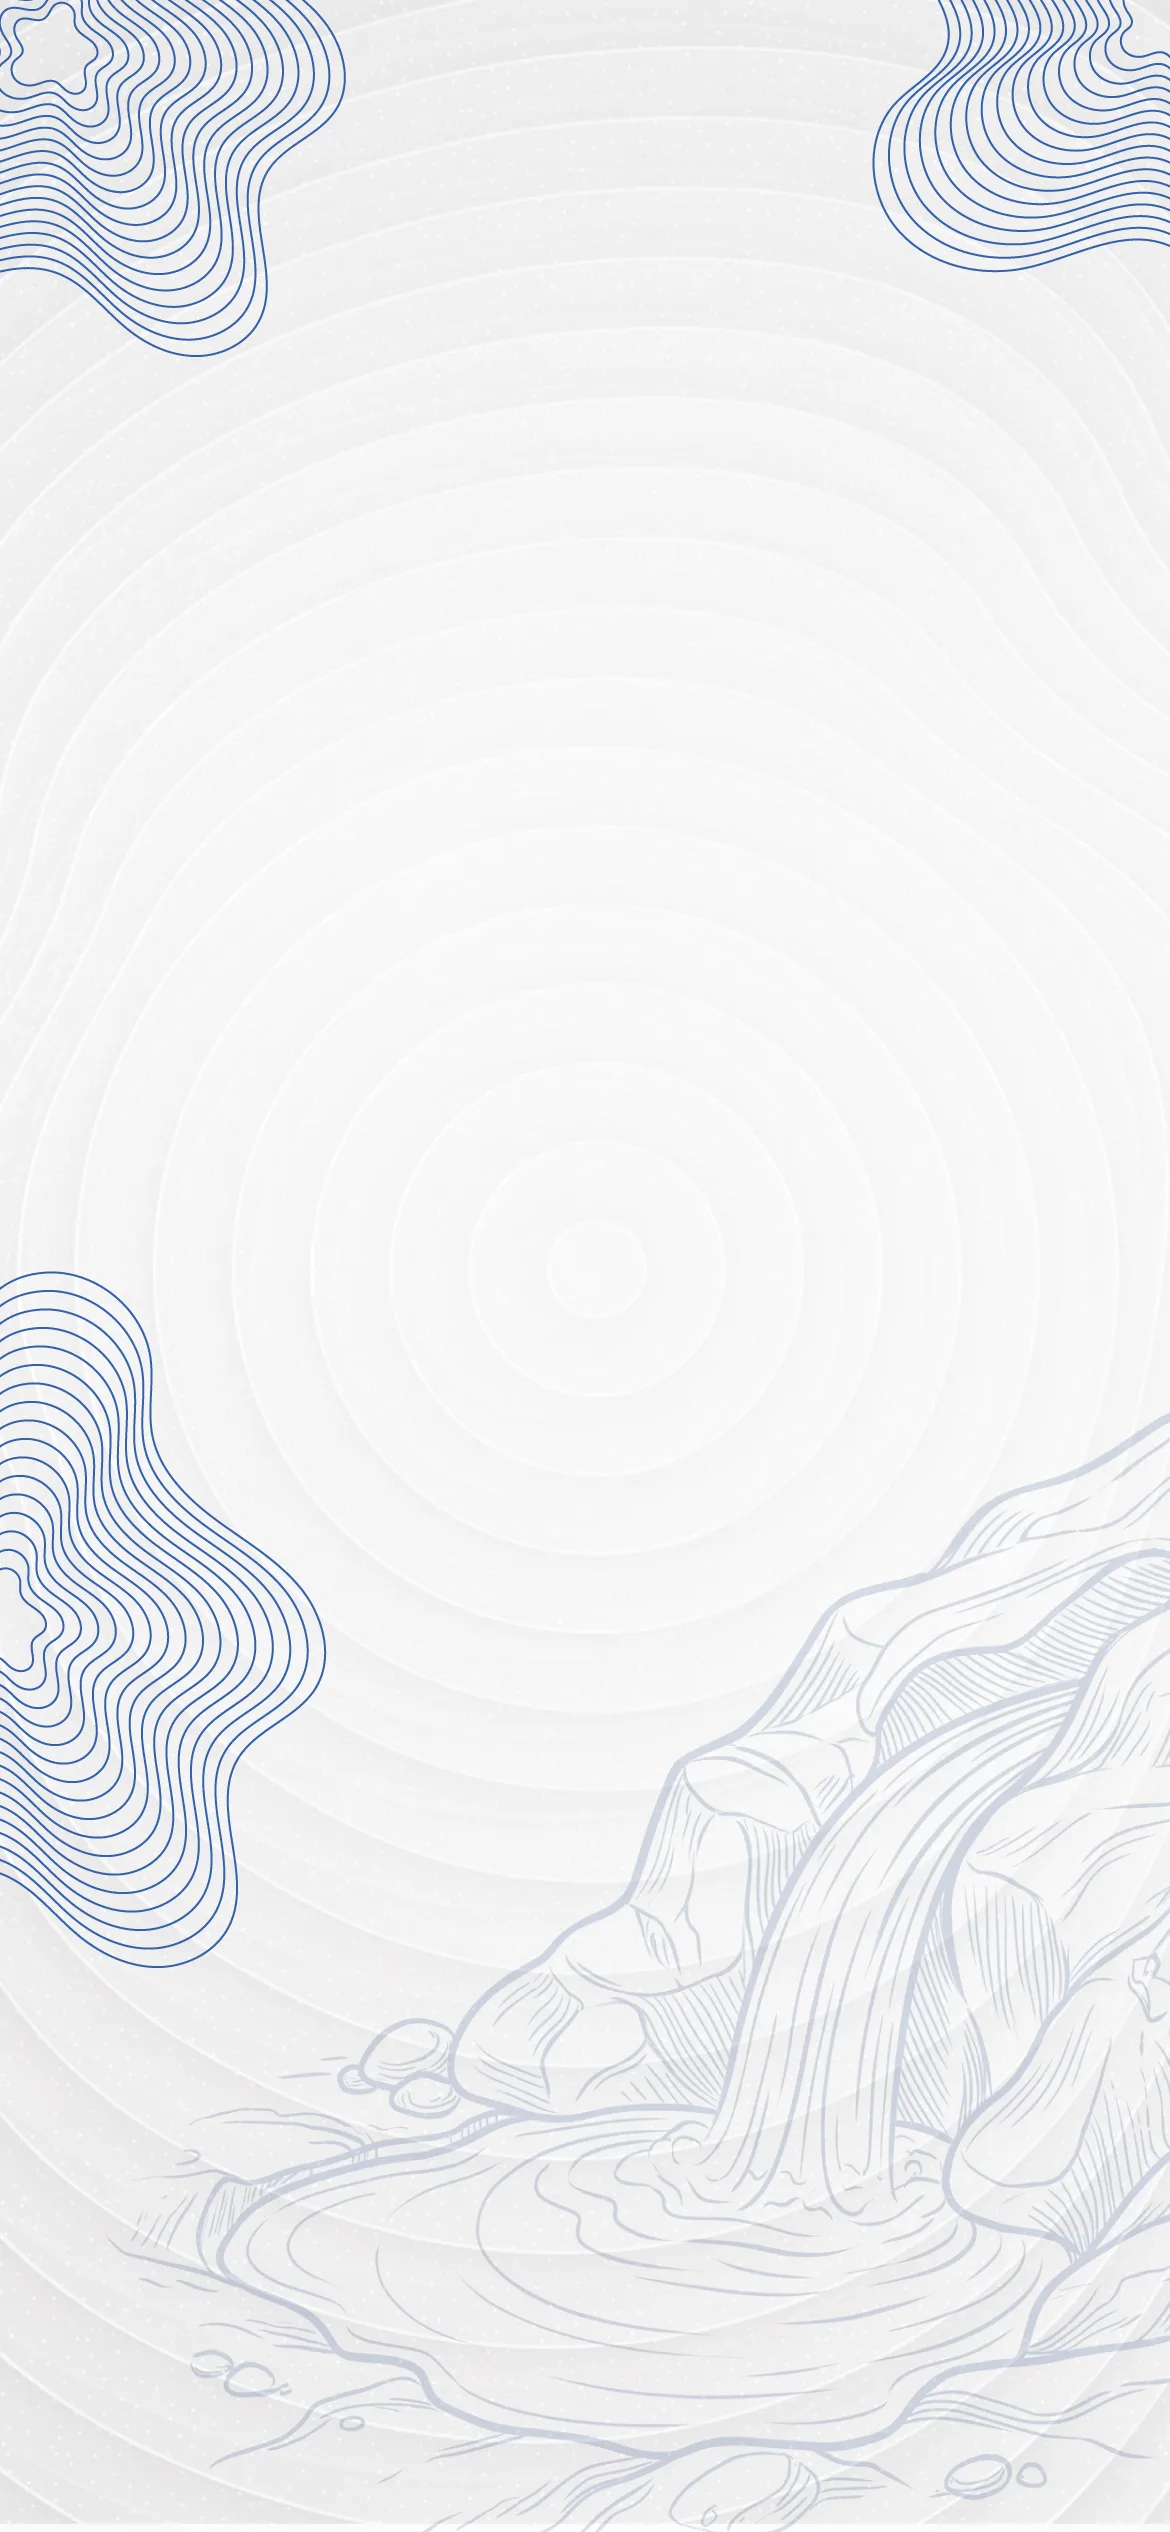
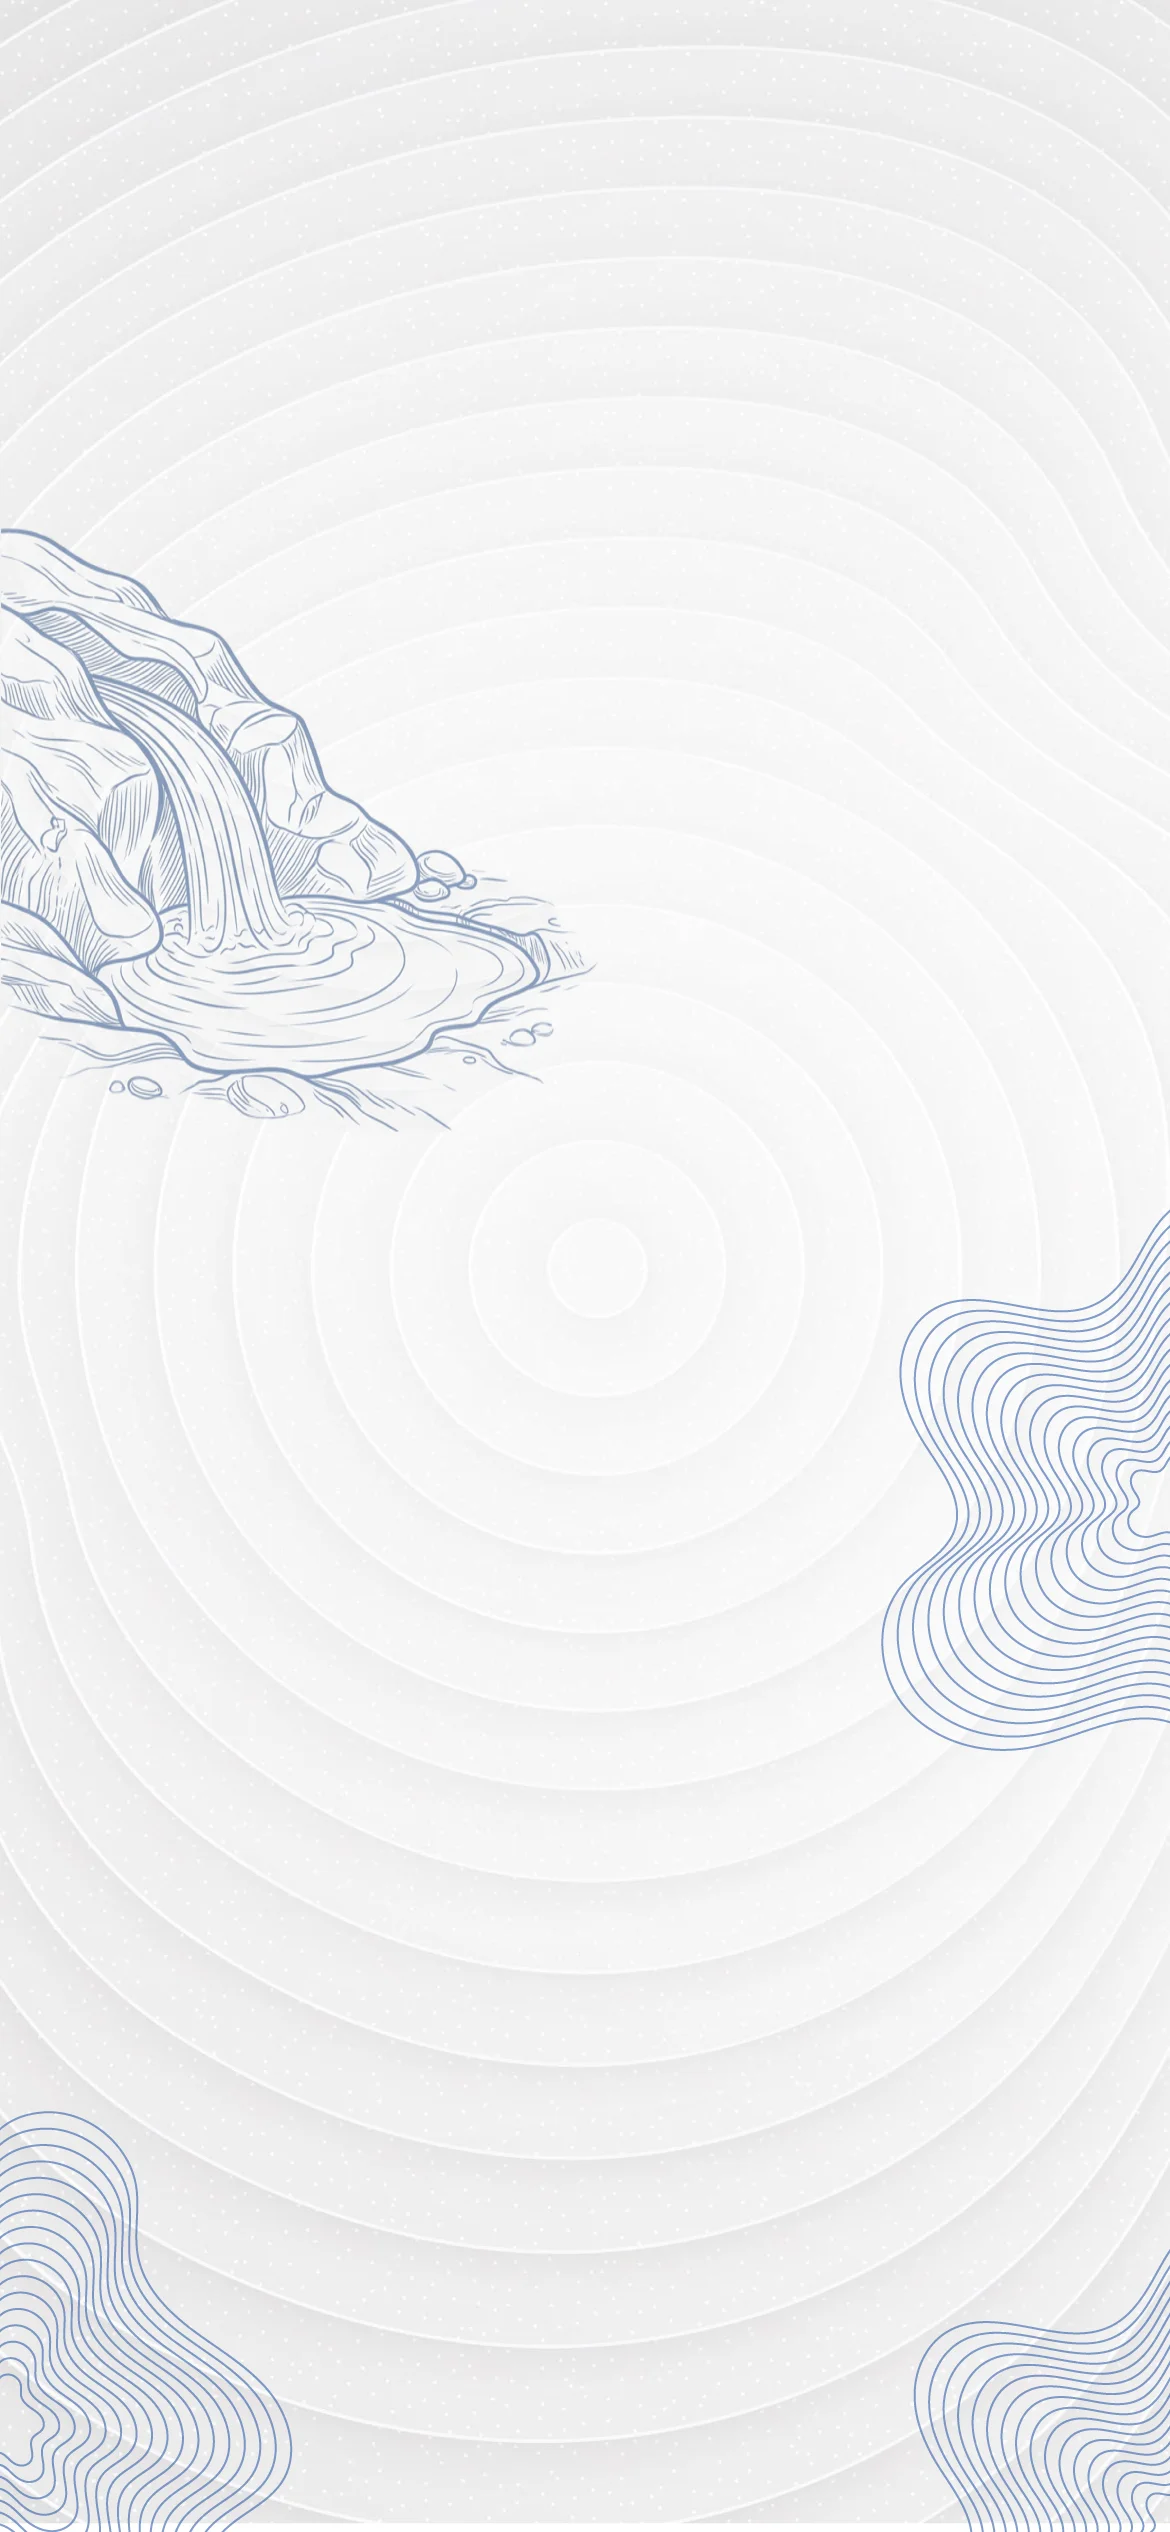
feat: fondos ajustados, badge de ubicación clickeable, fixes de galería
- Segunda entrega de fondos "ajustados" para Agua, Guardacuencas,
  Especie del Mes y Jóvenes pa' Lante (Biodiversidad quedó igual)
- Nombre de grupo (.bio-card__name) siempre verde oscuro
- Fix: el emoji de respaldo (💧 en Guarda Cuencas, emoji de familia en
  JPL) tapaba la foto ya cargada por faltar display:none por defecto
- Badge de ubicación en la galería de Guarda Cuencas ahora es un enlace
  al mapa de cuencas, con estilo de chip interactivo
- CLAUDE.md documentado con todo lo anterior

diff --git a/comunidad/guarda_cuencas/galeria.js b/comunidad/guarda_cuencas/galeria.js
@@ -100,13 +100,13 @@ const SUBREGION_NAMES = {
 
         card.innerHTML = `
           <div class="photo-card__img-wrap">
-            <img src="${foto.foto}" alt="${titulo}" loading="lazy" onerror="this.style.display='none'">
+            <img src="${foto.foto}" alt="${titulo}" loading="lazy" onerror="this.style.display='none'; this.nextElementSibling.style.display='flex'">
             <div class="photo-card__placeholder">💧</div>
           </div>
           <div class="photo-card__info">
             <div class="photo-card__title">${titulo}</div>
             <div class="photo-card__badges">
-              <span class="badge-subregion">📍 ${subNombre}</span>
+              <a href="../../agua/mapa.html" class="badge-subregion badge-subregion--link" onclick="event.stopPropagation()" aria-label="Ver cuencas en el mapa">📍 ${subNombre}</a>
             </div>
             <div class="photo-card__credit">
               <svg width="12" height="12" viewBox="0 0 24 24" fill="none" stroke="currentColor" stroke-width="2" aria-hidden="true"><circle cx="12" cy="8" r="4"/><path d="M6 20v-2a6 6 0 0112 0v2"/></svg>
@@ -137,7 +137,7 @@ const SUBREGION_NAMES = {
 
       document.getElementById('modal-title').textContent = titulo;
       document.getElementById('modal-badges').innerHTML = `
-        <span class="badge-subregion">📍 ${subNombre}</span>
+        <a href="../../agua/mapa.html" class="badge-subregion badge-subregion--link" aria-label="Ver cuencas en el mapa">📍 ${subNombre}</a>
         <span class="badge-municipio">🏘 ${foto.municipio}</span>`;
       const descEl = document.getElementById('modal-desc');
       descEl.textContent = desc || '';

diff --git a/comunidad/guarda_cuencas/galeria.css b/comunidad/guarda_cuencas/galeria.css
@@ -125,7 +125,7 @@
     .photo-card__placeholder {
       position: absolute;
       inset: 0;
-      display: flex;
+      display: none;
       align-items: center;
       justify-content: center;
       font-size: 4rem;
@@ -159,6 +159,27 @@
       font-weight: 700;
       padding: 4px 10px;
       border-radius: var(--radius-sm);
+    }
+
+    /* A diferencia del tag informativo de arriba, este SÍ navega
+       (lleva al mapa de cuencas) — por eso usa la forma de chip
+       interactivo: píldora + borde, en vez de rectángulo suave. */
+    .badge-subregion--link {
+      display: inline-flex;
+      align-items: center;
+      gap: 3px;
+      border-radius: var(--radius-full);
+      border: 1.5px solid var(--color-gc);
+      background: var(--color-white);
+      text-decoration: none;
+      cursor: pointer;
+      transition: transform 0.15s ease, background 0.15s ease;
+    }
+
+    .badge-subregion--link:active {
+      transform: scale(0.96);
+      background: var(--color-gc);
+      color: var(--color-white);
     }
 
     .photo-card__credit {

diff --git a/comunidad/jovenes_pa_lante/galeria.html b/comunidad/jovenes_pa_lante/galeria.html
@@ -6,9 +6,9 @@
   <meta name="theme-color" content="#f28e18">
   <title>Fotos Biodiversidad · Jóvenes pa' Lante</title>
   <link rel="stylesheet" href="../../biodiversidad/css/main.css?v=5">
-  <link rel="stylesheet" href="../../biodiversidad/css/components.css?v=20">
+  <link rel="stylesheet" href="../../biodiversidad/css/components.css?v=21">
   <link rel="stylesheet" href="../../biodiversidad/css/animations.css?v=4">
-  <link rel="stylesheet" href="galeria.css?v=8">
+  <link rel="stylesheet" href="galeria.css?v=9">
 </head>
 <body>
   <div class="app-shell">
@@ -82,6 +82,6 @@
   </div>
 
   <script src="../../biodiversidad/js/i18n.js"></script>
-  <script src="galeria.js"></script>
+  <script src="galeria.js?v=1"></script>
 </body>
 </html>

diff --git a/comunidad/guarda_cuencas/galeria.html b/comunidad/guarda_cuencas/galeria.html
@@ -6,9 +6,9 @@
   <meta name="theme-color" content="#3561ab">
   <title>Galería Guarda Cuencas · Antioquia</title>
   <link rel="stylesheet" href="../../biodiversidad/css/main.css?v=5">
-  <link rel="stylesheet" href="../../biodiversidad/css/components.css?v=20">
+  <link rel="stylesheet" href="../../biodiversidad/css/components.css?v=21">
   <link rel="stylesheet" href="../../biodiversidad/css/animations.css?v=4">
-  <link rel="stylesheet" href="galeria.css?v=5">
+  <link rel="stylesheet" href="galeria.css?v=7">
 </head>
 <body>
   <div class="app-shell">
@@ -79,6 +79,6 @@
   </div>
 
   <script src="../../biodiversidad/js/i18n.js"></script>
-  <script src="galeria.js?v=1"></script>
+  <script src="galeria.js?v=3"></script>
 </body>
 </html>

diff --git a/comunidad/jovenes_pa_lante/galeria.js b/comunidad/jovenes_pa_lante/galeria.js
@@ -225,7 +225,7 @@ const SUBREGION_NAMES = {
         card.setAttribute('aria-label', `${nombre} · ${subNombre}`);
         card.innerHTML = `
           <div class="photo-card__img-wrap">
-            <img src="${getImgs(foto)[0] || ''}" alt="${nombre}" loading="lazy" onerror="this.style.display='none'">
+            <img src="${getImgs(foto)[0] || ''}" alt="${nombre}" loading="lazy" onerror="this.style.display='none'; this.nextElementSibling.style.display='flex'">
             <div class="photo-card__placeholder">${emoji}</div>
             <span class="photo-card__iucn-overlay badge-iucn badge-iucn--${foto.iucn}">${foto.iucn}</span>
             ${foto.endemica ? `<span class="photo-card__endemic-overlay">🫓 Endémica</span>` : ''}

diff --git a/comunidad/especie_del_mes.html b/comunidad/especie_del_mes.html
@@ -6,7 +6,7 @@
   <meta name="theme-color" content="#8b4a97">
   <title>Especie del Mes · Antioquia Natural</title>
   <link rel="stylesheet" href="../biodiversidad/css/main.css?v=5">
-  <link rel="stylesheet" href="../biodiversidad/css/components.css?v=20">
+  <link rel="stylesheet" href="../biodiversidad/css/components.css?v=21">
   <link rel="stylesheet" href="../biodiversidad/css/animations.css?v=4">
   <link rel="preload" as="image" href="img/fondos/fondo-especie-del-mes.webp">
   <link rel="stylesheet" href="especie_del_mes.css?v=7">

diff --git a/comunidad/guarda_cuencas/index.html b/comunidad/guarda_cuencas/index.html
@@ -6,7 +6,7 @@
   <meta name="theme-color" content="#3561ab">
   <title>Guarda Cuencas · Antioquia Natural</title>
   <link rel="stylesheet" href="../../biodiversidad/css/main.css?v=5">
-  <link rel="stylesheet" href="../../biodiversidad/css/components.css?v=20">
+  <link rel="stylesheet" href="../../biodiversidad/css/components.css?v=21">
   <link rel="stylesheet" href="../../biodiversidad/css/animations.css?v=4">
   <link rel="preload" as="image" href="img/fondos/fondo-guardacuencas.webp">
   <link rel="stylesheet" href="index.css?v=7">

diff --git a/agua/ecosistemas_mapa.html b/agua/ecosistemas_mapa.html
@@ -6,7 +6,7 @@
   <meta name="theme-color" content="#3561ab">
   <title>Mapa de Ecosistemas · Antioquia</title>
   <link rel="stylesheet" href="../biodiversidad/css/main.css?v=5">
-  <link rel="stylesheet" href="../biodiversidad/css/components.css?v=20">
+  <link rel="stylesheet" href="../biodiversidad/css/components.css?v=21">
   <link rel="stylesheet" href="../biodiversidad/css/animations.css?v=4">
   <link rel="stylesheet" href="https://unpkg.com/leaflet@1.9.4/dist/leaflet.css">
   <link rel="stylesheet" href="ecosistemas_mapa.css">

diff --git a/agua/ecosistemas.html b/agua/ecosistemas.html
@@ -7,7 +7,7 @@
   <meta name="page-title" content="ecosystems_title">
   <title>Ecosistemas Estratégicos · Antioquia</title>
   <link rel="stylesheet" href="../biodiversidad/css/main.css?v=5">
-  <link rel="stylesheet" href="../biodiversidad/css/components.css?v=20">
+  <link rel="stylesheet" href="../biodiversidad/css/components.css?v=21">
   <link rel="stylesheet" href="../biodiversidad/css/animations.css?v=4">
   <link rel="preload" as="image" href="img/fondos/fondo-agua.webp">
   <link rel="stylesheet" href="ecosistemas.css?v=5">

diff --git a/comunidad/jovenes_pa_lante/index.html b/comunidad/jovenes_pa_lante/index.html
@@ -6,7 +6,7 @@
   <meta name="theme-color" content="#f28e18">
   <title>Jóvenes pa' Lante · Antioquia</title>
   <link rel="stylesheet" href="../../biodiversidad/css/main.css?v=5">
-  <link rel="stylesheet" href="../../biodiversidad/css/components.css?v=20">
+  <link rel="stylesheet" href="../../biodiversidad/css/components.css?v=21">
   <link rel="stylesheet" href="../../biodiversidad/css/animations.css?v=4">
   <link rel="preload" as="image" href="img/fondos/fondo-jpl.webp">
   <link rel="stylesheet" href="index.css?v=7">

diff --git a/comunidad/jovenes_pa_lante/mapa.html b/comunidad/jovenes_pa_lante/mapa.html
@@ -6,7 +6,7 @@
   <meta name="theme-color" content="#f28e18">
   <title>Mapa Municipios · Jóvenes pa' Lante</title>
   <link rel="stylesheet" href="../../biodiversidad/css/main.css?v=5">
-  <link rel="stylesheet" href="../../biodiversidad/css/components.css?v=20">
+  <link rel="stylesheet" href="../../biodiversidad/css/components.css?v=21">
   <link rel="stylesheet" href="../../biodiversidad/css/animations.css?v=4">
   <!-- Leaflet CSS -->
   <link rel="stylesheet" href="https://unpkg.com/leaflet@1.9.4/dist/leaflet.css">

diff --git a/comunidad/index.html b/comunidad/index.html
@@ -6,7 +6,7 @@
   <meta name="theme-color" content="#018d38">
   <title>Comunidad · Antioquia Natural</title>
   <link rel="stylesheet" href="../biodiversidad/css/main.css?v=5">
-  <link rel="stylesheet" href="../biodiversidad/css/components.css?v=20">
+  <link rel="stylesheet" href="../biodiversidad/css/components.css?v=21">
   <link rel="stylesheet" href="../biodiversidad/css/animations.css?v=4">
   <link rel="preload" as="image" href="img/fondos/fondo-comunidad.webp">
   <link rel="stylesheet" href="index.css?v=7">
